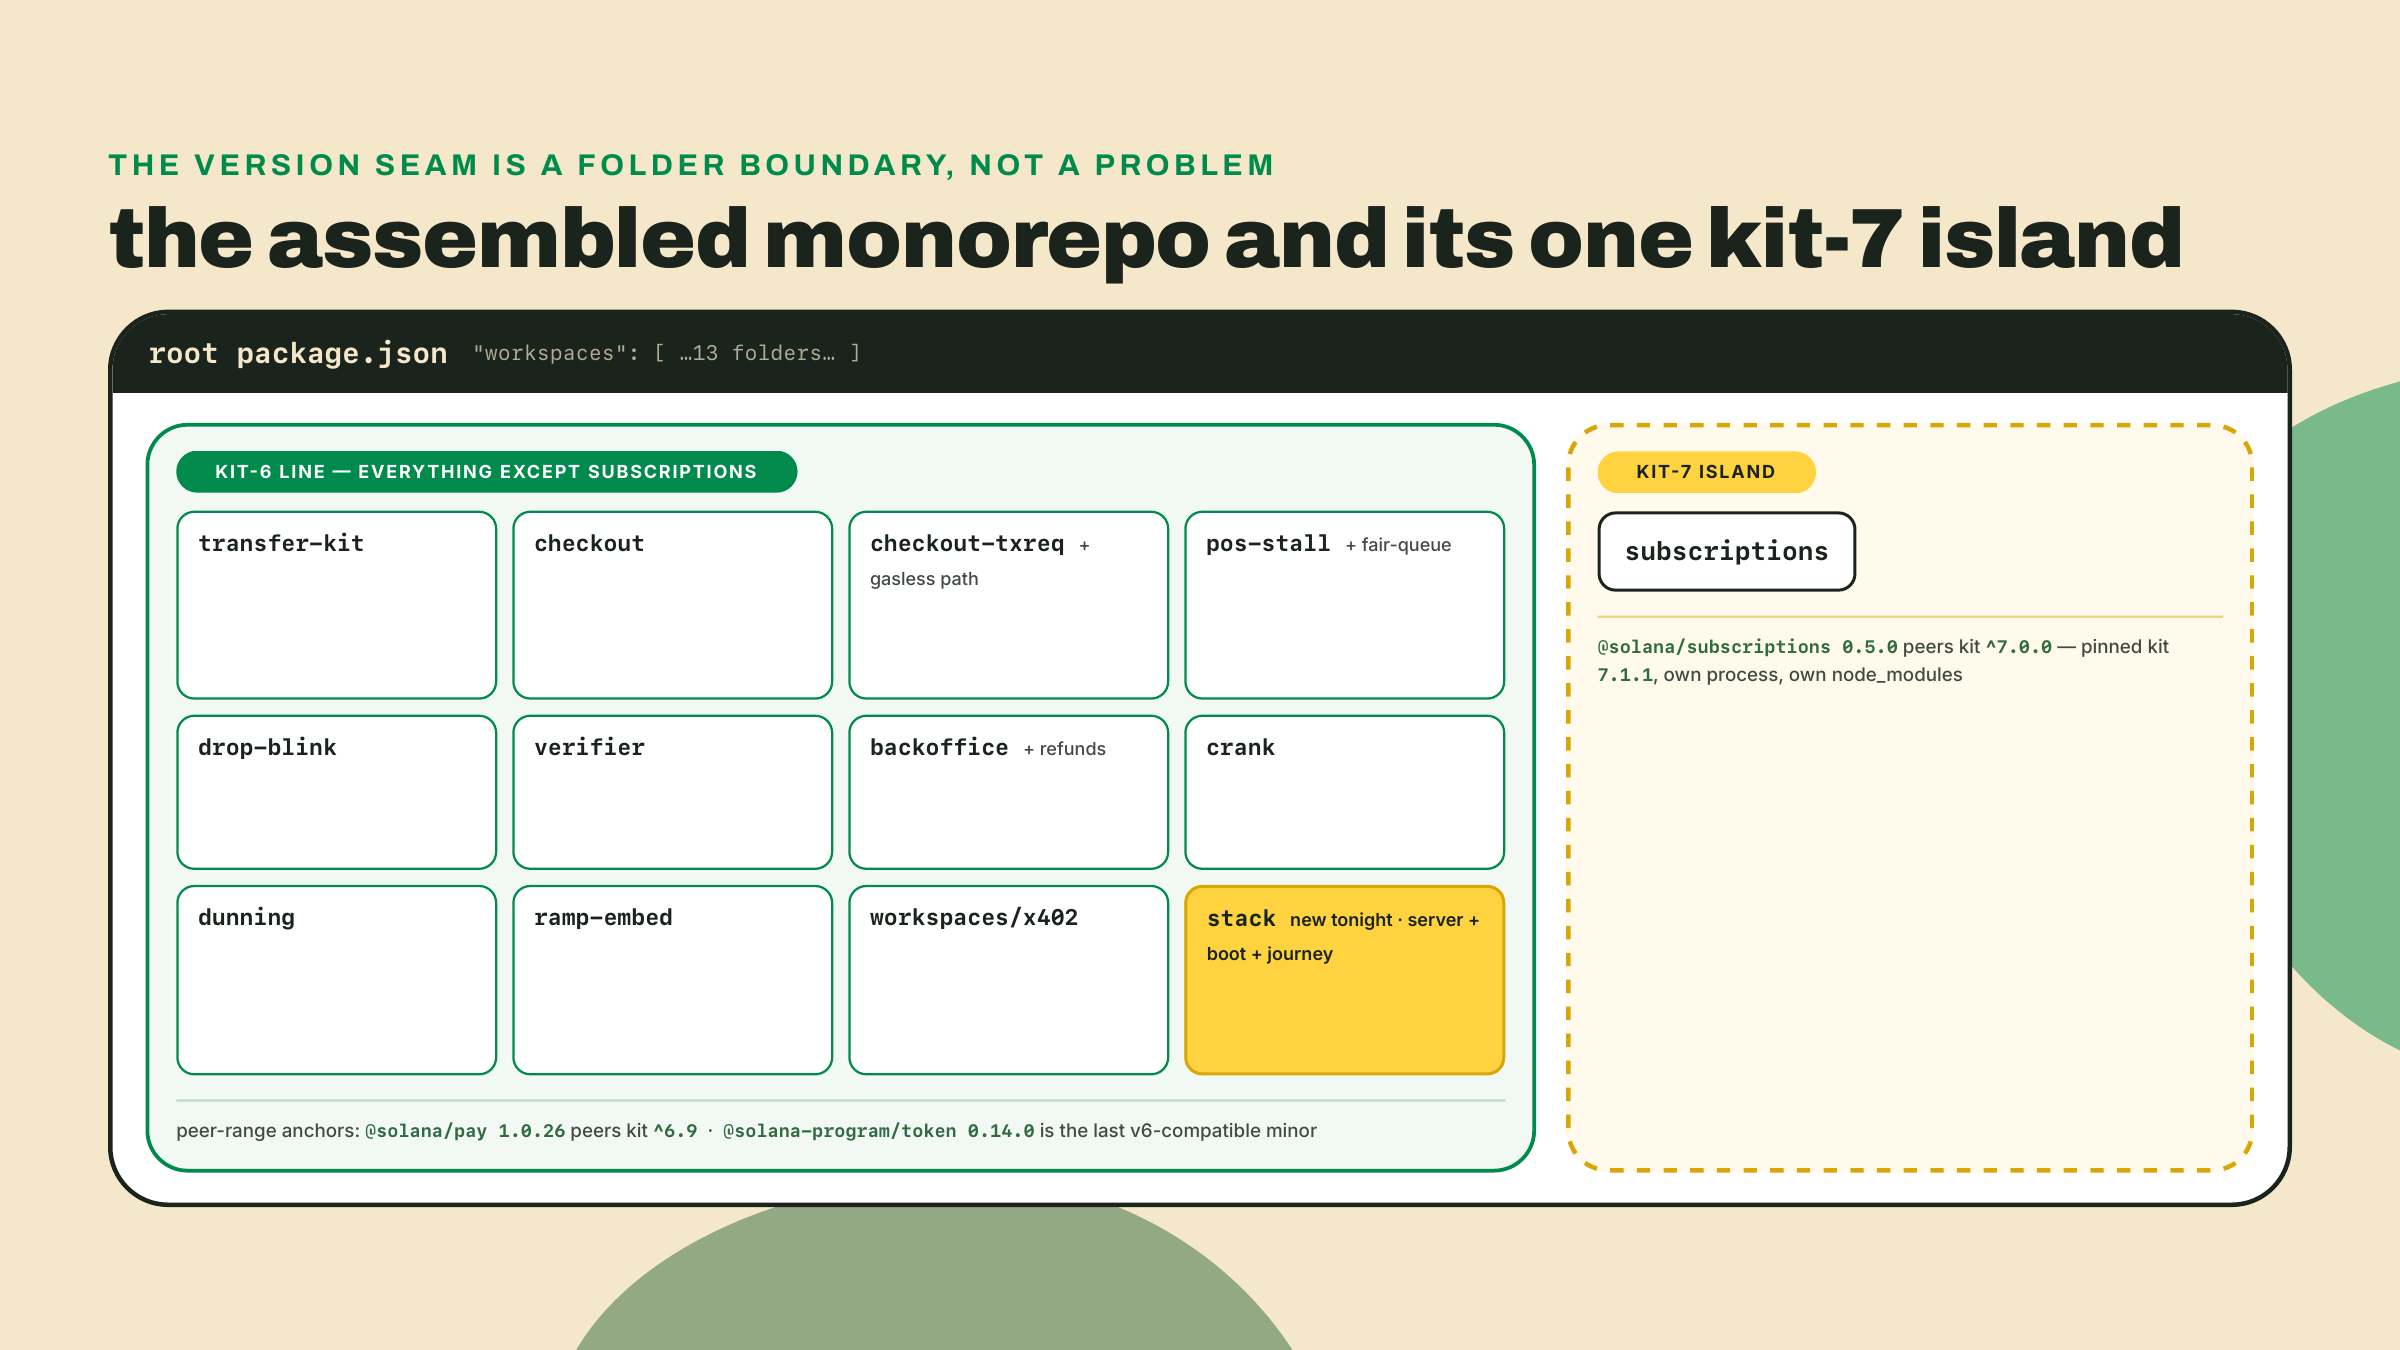
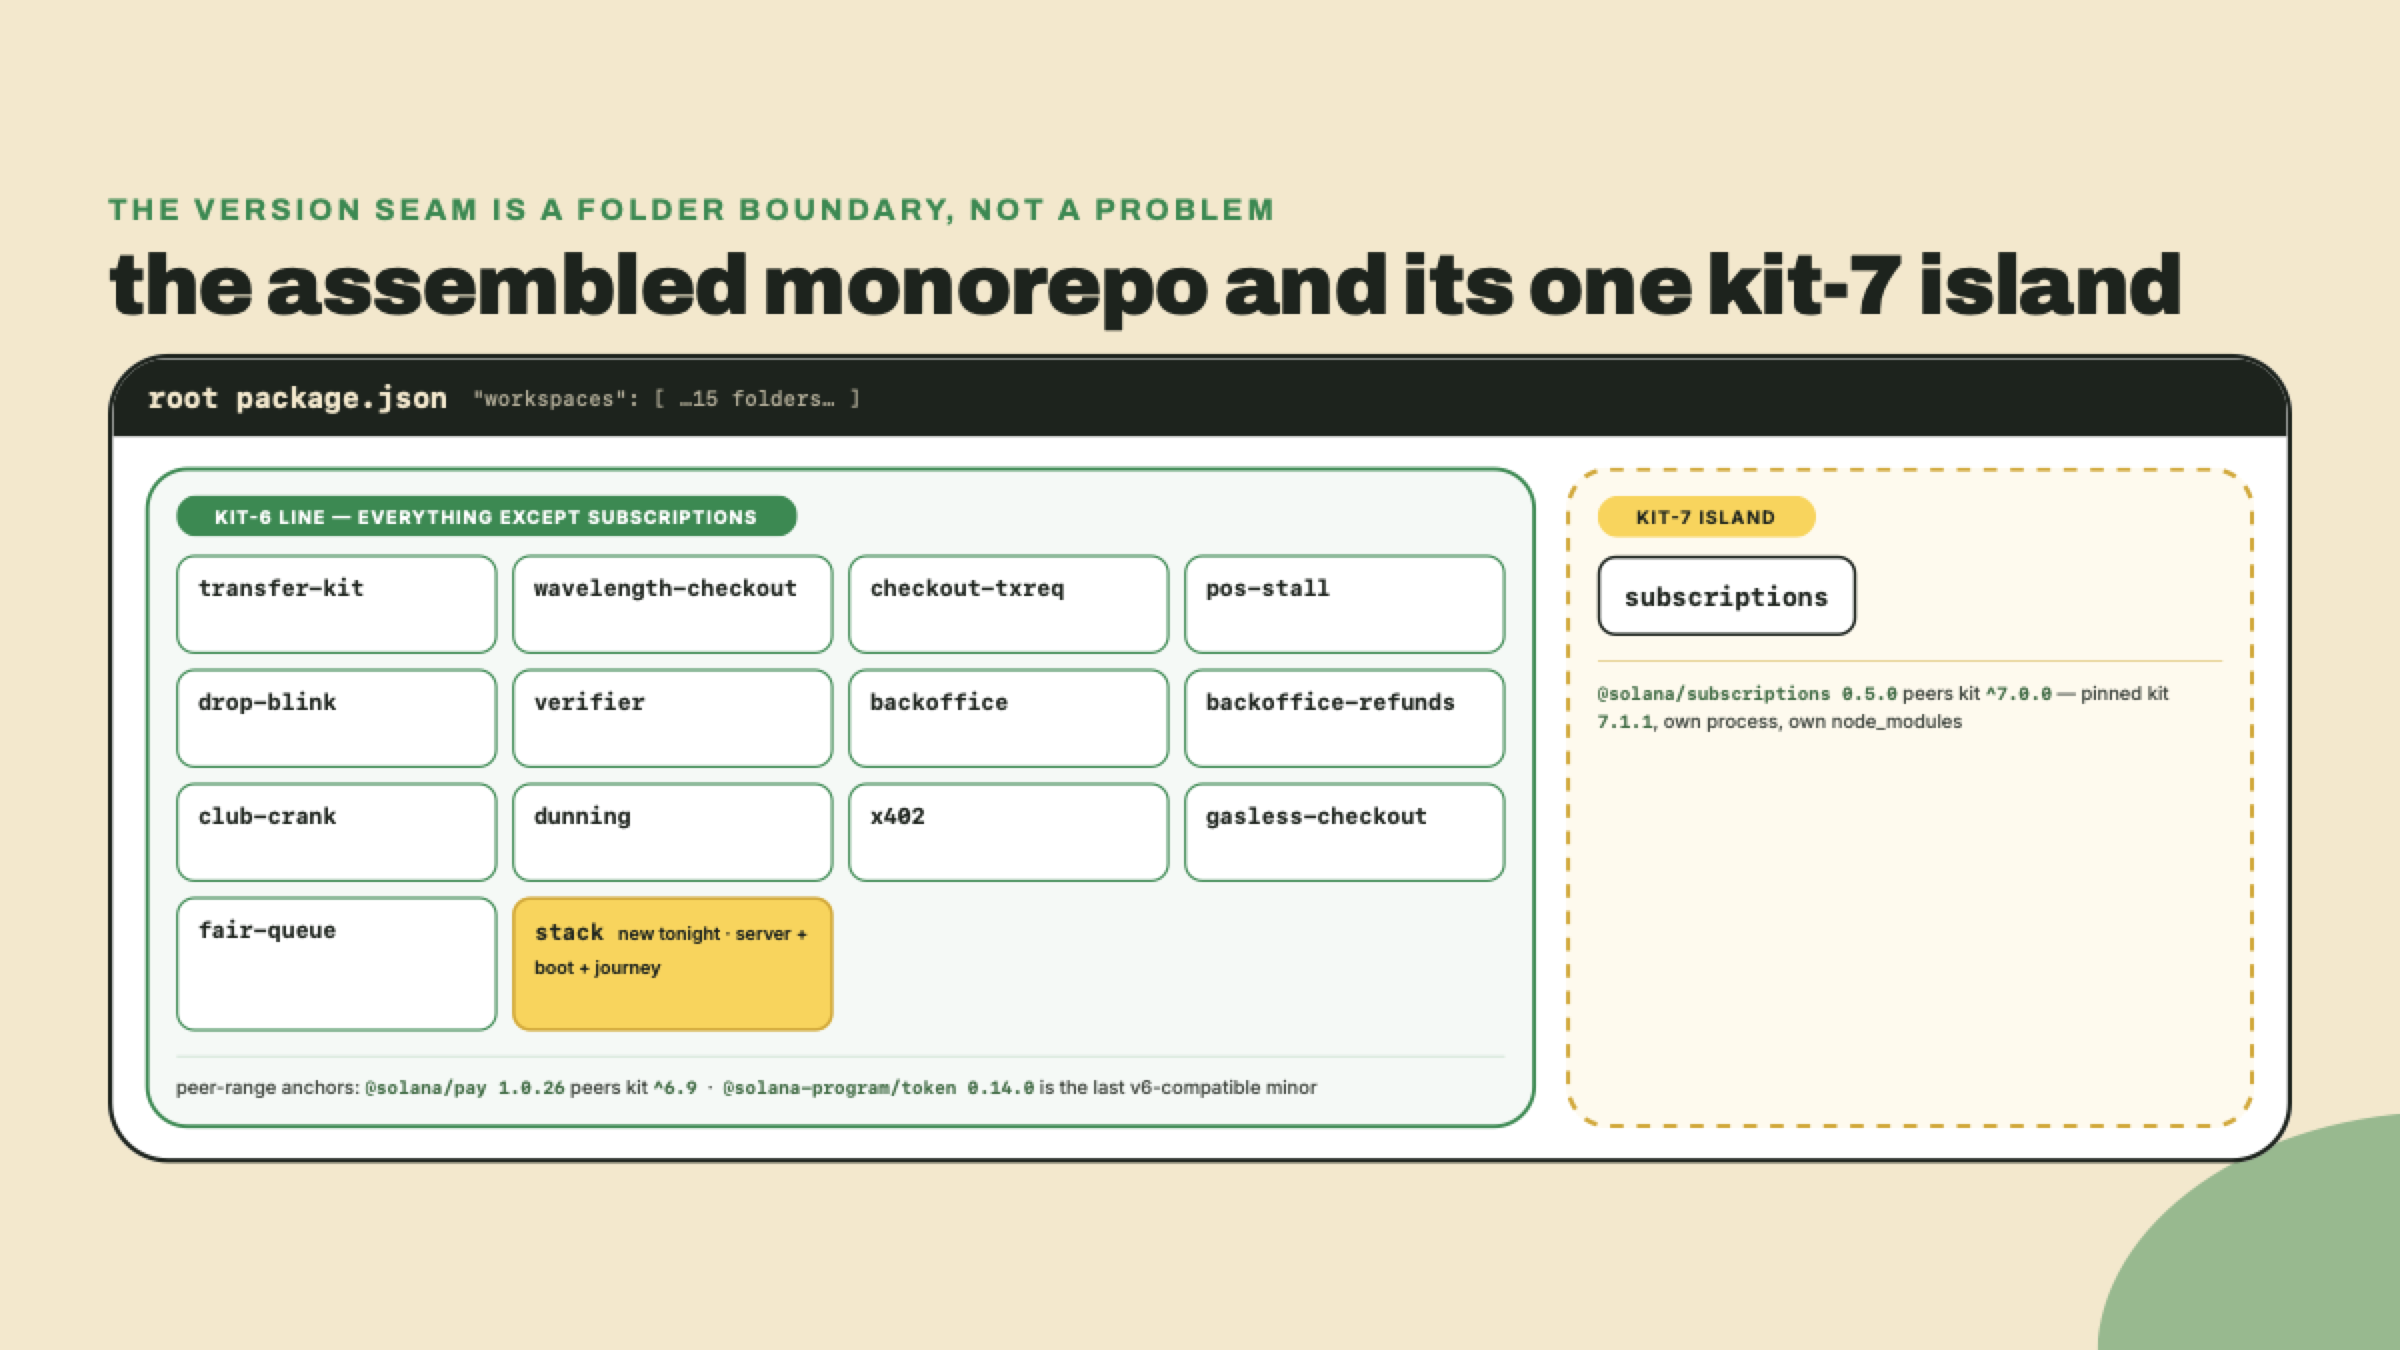
fix(payments): redraw the m09-l1 monorepo diagram to the reconciled 15-workspace roster

diff --git a/courses/solana-payments-commerce/visual-src/m09-l1/v03-diagram.html b/courses/solana-payments-commerce/visual-src/m09-l1/v03-diagram.html
@@ -12,7 +12,7 @@
 <body>
 <!-- diagram: The assembled monorepo and its one kit-7 island
      purpose: show the final workspace roster and that the version seam is a folder boundary, not a problem
-     data: root package.json workspaces: transfer-kit, checkout, checkout-txreq (+ gasless path), pos-stall (+ fair-queue), drop-blink, verifier, backoffice (+ refunds), crank, subscriptions, dunning, ramp-embed, workspaces/x402, stack kit-6 line workspaces: everything above except subscriptions (anchors: @solana/pay 1.0.26 peers kit ^6.9; @solana-program/token 0.14.0 is the last v6-compatible minor) kit-7 island: subscriptions only (@solana/subscriptions 0.5.0 peers kit ^7.0.0, pinned kit 7.1.1) new tonight: the stack workspace (server + boot + journey), kit-6 line
+     data: root package.json workspaces: transfer-kit, wavelength-checkout, checkout-txreq, pos-stall, drop-blink, verifier, backoffice, backoffice-refunds, club-crank, subscriptions, dunning, x402, gasless-checkout, fair-queue, stack kit-6 line workspaces: everything above except subscriptions (anchors: @solana/pay 1.0.26 peers kit ^6.9; @solana-program/token 0.14.0 is the last v6-compatible minor) kit-7 island: subscriptions only (@solana/subscriptions 0.5.0 peers kit ^7.0.0, pinned kit 7.1.1) new tonight: the stack workspace (server + boot + journey), kit-6 line
      prompt: One large container labeled with the root package.json, holding workspace boxes named from data. Group all kit-6 workspaces in one region, isolate subscriptions in a dashed region labeled "kit-7 island", and highlight the new stack workspace. Annotate the two peer-range anchors from data as small captions. Structure only; house brand styles apply.
      BUILD .viz as on-brand HTML per skills/content-gen/references/visual-rendering.md.
      Header: <div class="stbr-eyebrow">..</div> + <h2 class="viz-title">..</h2>.
@@ -55,22 +55,24 @@
   <div class="stbr-eyebrow">the version seam is a folder boundary, not a problem</div>
   <h2 class="viz-title">the assembled monorepo and its one kit-7 island</h2>
   <div class="repo">
-    <div class="repo-head"><span class="fn">root package.json</span><span class="ws">"workspaces": [ &hellip;13 folders&hellip; ]</span></div>
+    <div class="repo-head"><span class="fn">root package.json</span><span class="ws">"workspaces": [ &hellip;15 folders&hellip; ]</span></div>
     <div class="repo-body">
       <div class="region k6">
         <span class="reg-lab">kit-6 line &mdash; everything except subscriptions</span>
         <div class="chips">
           <span class="chip">transfer-kit</span>
-          <span class="chip">checkout</span>
-          <span class="chip">checkout-txreq <span>+ gasless path</span></span>
-          <span class="chip">pos-stall <span>+ fair-queue</span></span>
+          <span class="chip">wavelength-checkout</span>
+          <span class="chip">checkout-txreq</span>
+          <span class="chip">pos-stall</span>
           <span class="chip">drop-blink</span>
           <span class="chip">verifier</span>
-          <span class="chip">backoffice <span>+ refunds</span></span>
-          <span class="chip">crank</span>
+          <span class="chip">backoffice</span>
+          <span class="chip">backoffice-refunds</span>
+          <span class="chip">club-crank</span>
           <span class="chip">dunning</span>
-          <span class="chip">ramp-embed</span>
-          <span class="chip">workspaces/x402</span>
+          <span class="chip">x402</span>
+          <span class="chip">gasless-checkout</span>
+          <span class="chip">fair-queue</span>
           <span class="chip new">stack <span>new tonight &middot; server + boot + journey</span></span>
         </div>
         <div class="anchors">peer-range anchors: <code>@solana/pay 1.0.26</code> peers kit <code>^6.9</code> &nbsp;&middot;&nbsp;

diff --git a/courses/solana-payments-commerce/lessons/m09-l1/intro.md b/courses/solana-payments-commerce/lessons/m09-l1/intro.md
@@ -47,7 +47,7 @@ Notice what the journey is not. It is not a UI walkthrough, and no leg ever trus
 
 The target shape is one npm monorepo whose root `package.json` lists every rung as a workspace. You have been building toward this since module 2 without ceremony; assembly just makes the roster explicit. And a pre-empt, because a tidy-minded teammate will absolutely propose collapsing everything into one workspace on one kit version while you are in there. Refuse, politely, with the peer ranges in hand: `@solana/pay` 1.0.26 peers kit ^6.9 and `@solana/subscriptions` 0.5.0 peers kit ^7.0.0, and both are correct. That seam was the whole point of the subscriptions lesson, and it is not re-derived here: the wavelength-checkout, backoffice, and x402 workspaces keep their kit-6 pins, the subscriptions workspace keeps kit 7.1.1, and npm resolves each workspace's tree independently so the peer ranges never meet. Those lines were re-verified against npm in the subscriptions lesson on 2026-08-22; run `npm view @solana/subscriptions@0.5.0 peerDependencies` yourself before you install anything today, because this corner of npm has moved twice this quarter, and never, anywhere, pin to `latest`.
 
-![Monorepo diagram listing all thirteen workspace folders with the subscriptions workspace isolated as the only kit-7 island and the new stack workspace highlighted on the kit-6 side.](assets/v03-diagram.png)
+![Monorepo diagram listing all fifteen workspace folders with the subscriptions workspace isolated as the only kit-7 island and the new stack workspace highlighted on the kit-6 side.](assets/v03-diagram.png)
 
 Not every rung got its own folder, and that is worth saying out loud: the ramp embed lives inside the wavelength-checkout workspace because it grew out of that server, the MPP gate is a config file standing in front of the x402 workspace rather than a codebase of its own, and the corridor decision record is a document, not a process. Rungs are capabilities, not directories. Your roster may differ from mine in names; the workspaces array is the source of truth, and it must list what you actually built.
 
